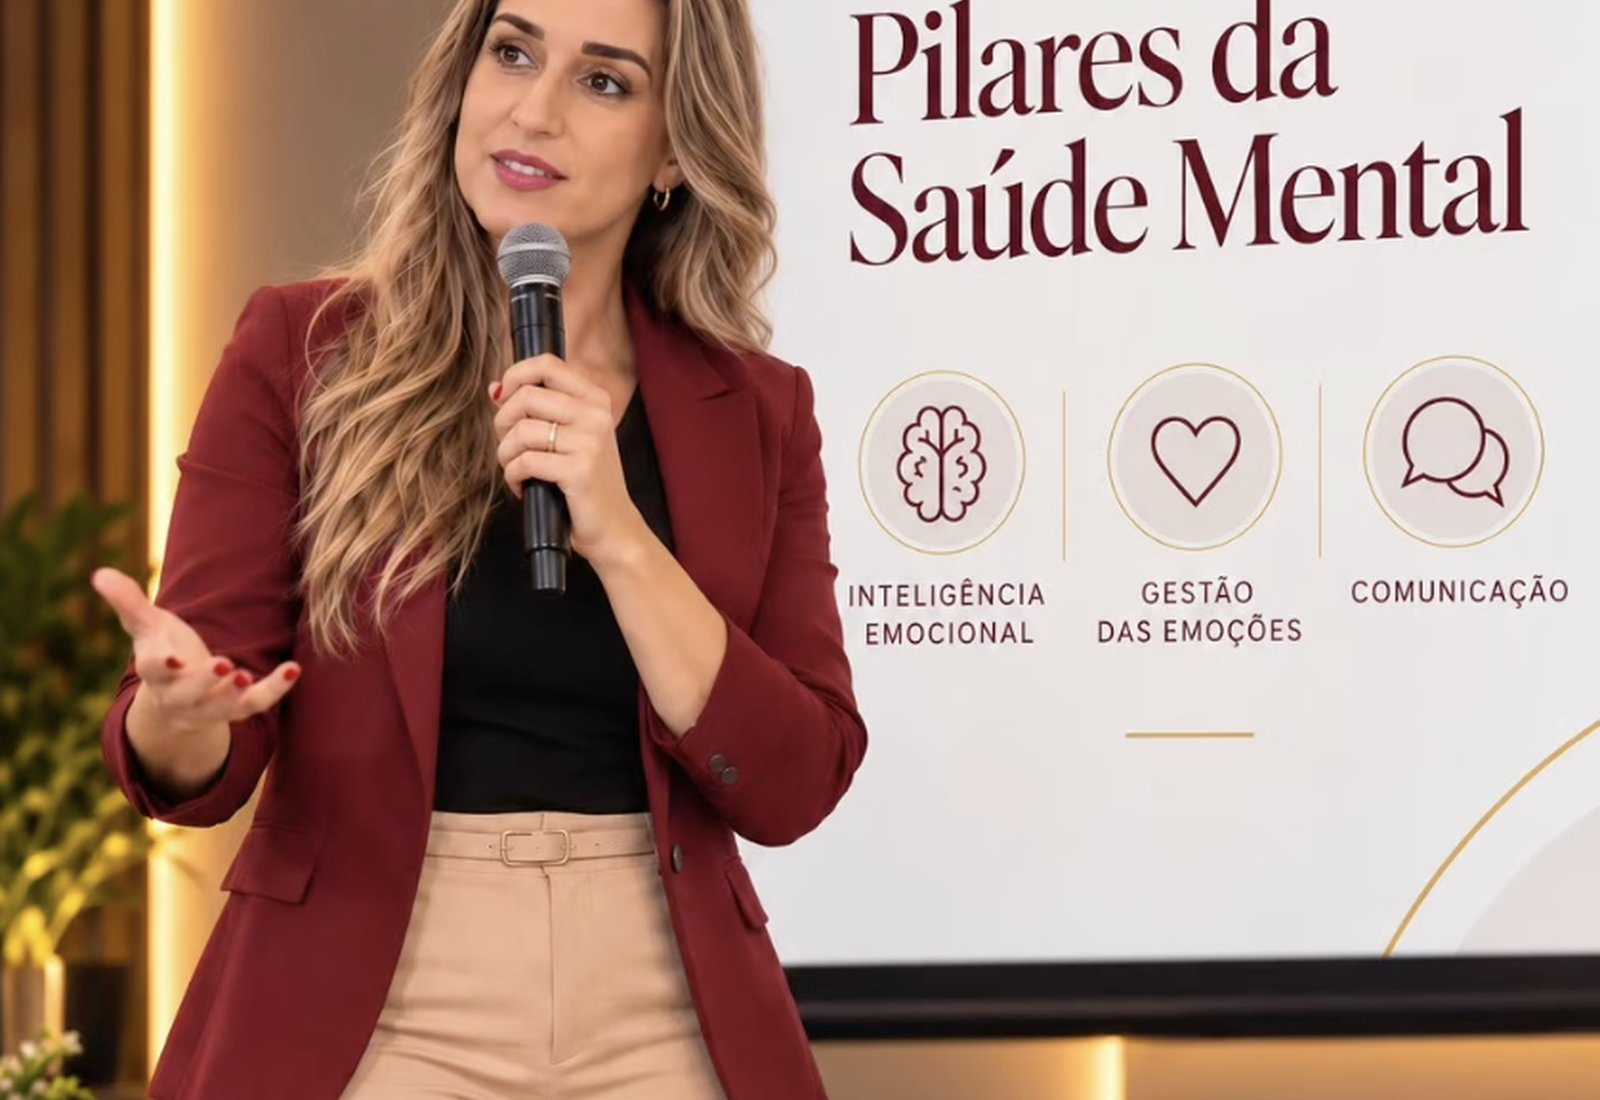
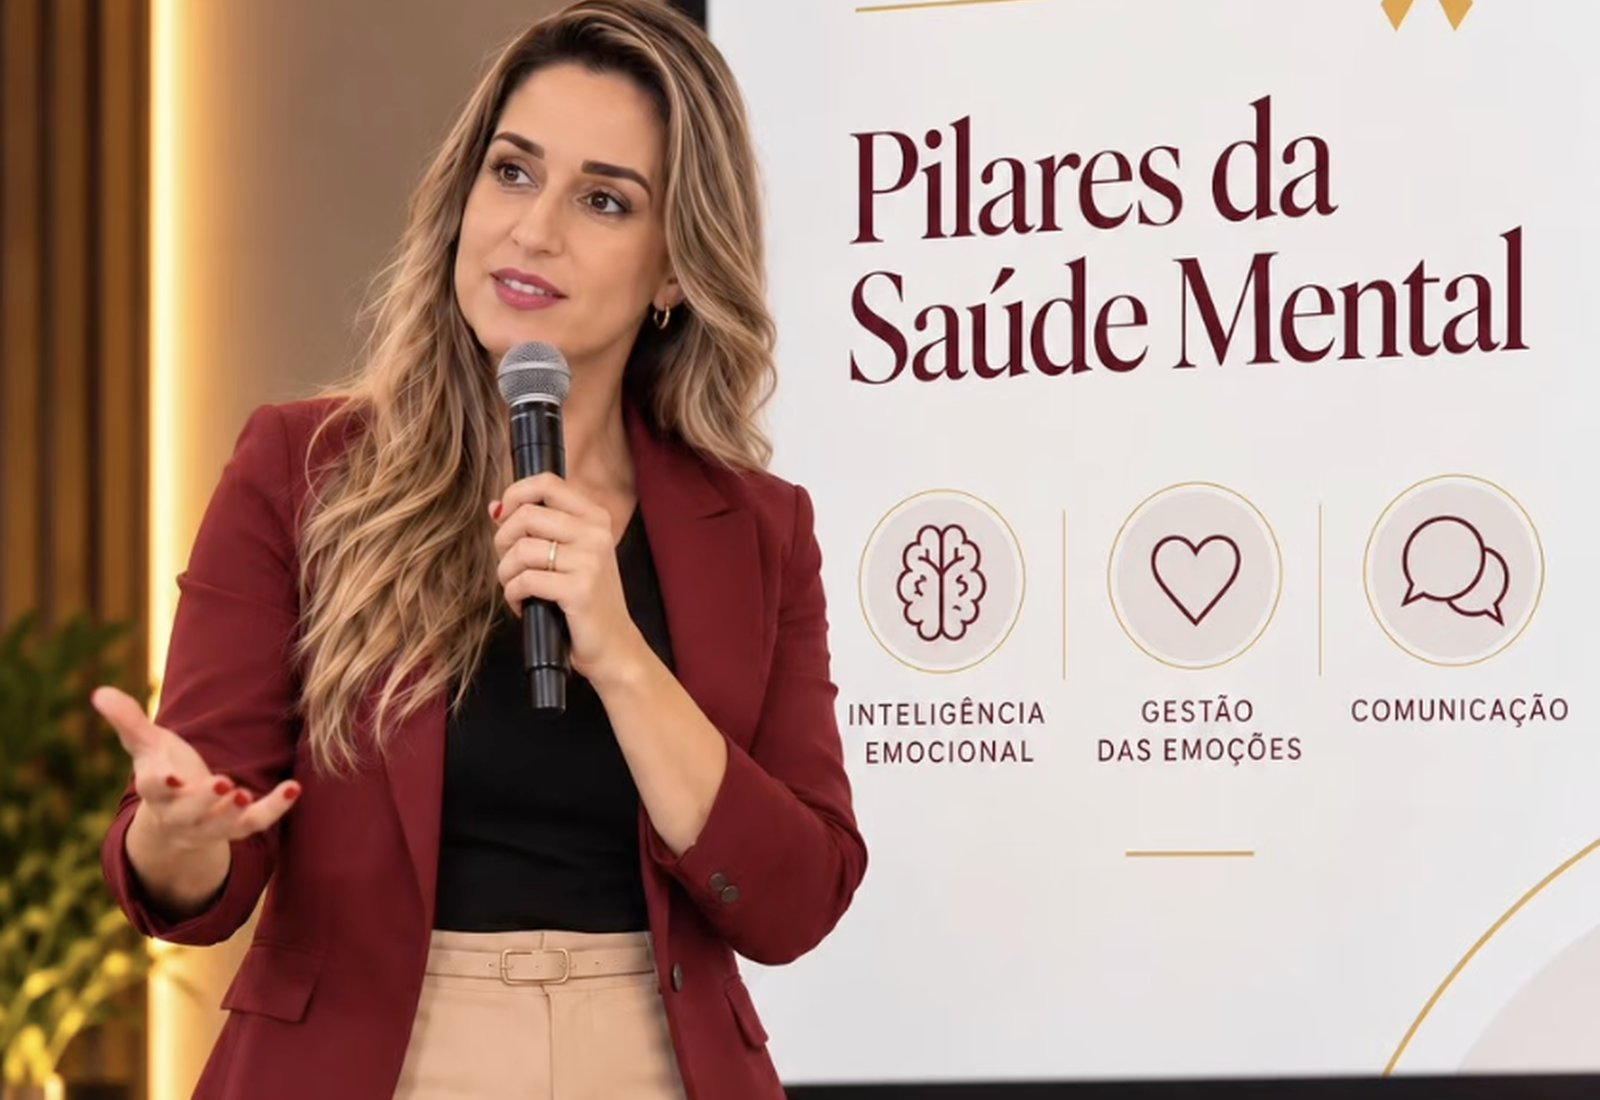
Ajusta enquadramento da foto de palestra (cabeça cortada) e adiciona marcador diamante dourado nas listas

diff --git a/priscila-lopes/sobre/index.html b/priscila-lopes/sobre/index.html
@@ -55,7 +55,7 @@
     <div class="sec-head"><p class="eyebrow">Formação e abordagem</p><h2>Formação e abordagem</h2><p style="font-size:13px;color:#8a7a70">Formação acadêmica, especializações, cursos, certificações e experiência a confirmar com Priscila.</p></div>
     <div class="grid-4">
       <div class="feat-card reveal"><svg viewBox="0 0 24 24" fill="none" stroke="currentColor" stroke-width="1.4"><path d="M12 3 2 8l10 5 10-5-10-5zM2 8v6M6 10.5V16c0 1.7 2.7 3 6 3s6-1.3 6-3v-5.5"/></svg><h3>Formação acadêmica</h3><p style="font-size:13px;color:#8a7a70">(a ajustar)</p></div>
-      <div class="feat-card reveal"><svg viewBox="0 0 24 24" fill="none" stroke="currentColor" stroke-width="1.4"><circle cx="12" cy="8" r="5"/><path d="M8.5 12.5 7 21l5-2.5L17 21l-1.5-8.5"/></svg><h3>Especializações</h3><p style="font-size:13.5px;color:#4a4540;margin:0">Psicanalista<br>Reposicionamento familiar (Consciência Sistêmica)<br>Especialização em Traumas emocionais<br>Psicoterapeuta Positiva</p></div>
+      <div class="feat-card reveal"><svg viewBox="0 0 24 24" fill="none" stroke="currentColor" stroke-width="1.4"><circle cx="12" cy="8" r="5"/><path d="M8.5 12.5 7 21l5-2.5L17 21l-1.5-8.5"/></svg><h3>Especializações</h3><ul class="diamond-list"><li>Psicanalista</li><li>Reposicionamento familiar (Consciência Sistêmica)</li><li>Especialização em Traumas emocionais</li><li>Psicoterapeuta Positiva</li></ul></div>
       <div class="feat-card reveal"><svg viewBox="0 0 24 24" fill="none" stroke="currentColor" stroke-width="1.4"><path d="M12 3c3 3 6 6.5 6 10a6 6 0 1 1-12 0c0-3.5 3-7 6-10z"/></svg><h3>Abordagem</h3><p style="font-size:13px;color:#8a7a70">(a ajustar)</p></div>
       <div class="feat-card reveal"><svg viewBox="0 0 24 24" fill="none" stroke="currentColor" stroke-width="1.4"><path d="M3 20c0-3 2.5-5 6-5s6 2 6 5M12 11a3.5 3.5 0 1 0 0-7 3.5 3.5 0 0 0 0 7zM16.5 7.5a3 3 0 1 1 3.2 5.2M19 13.5c1.8.4 3 1.8 3 3.5"/></svg><h3>Experiência</h3><p style="font-size:13px;color:#8a7a70">(a ajustar)</p></div>
     </div>

diff --git a/priscila-lopes/style.css b/priscila-lopes/style.css
@@ -127,6 +127,11 @@ p{margin:0 0 16px;color:#4a4540}
 .feat-card h3{font-size:16.5px;margin-bottom:8px}
 .feat-card p{font-size:14px;margin:0}
 
+/* diamond bullet list */
+.diamond-list{list-style:none;margin:0;padding:0;display:flex;flex-direction:column;gap:10px}
+.diamond-list li{display:flex;align-items:flex-start;gap:11px;font-size:13.5px;color:#4a4540;line-height:1.45}
+.diamond-list li::before{content:"";width:9px;height:9px;flex:none;margin-top:5px;background:linear-gradient(135deg,#dfc78e,var(--dourado) 55%,#8a6a37);clip-path:polygon(50% 0%,100% 50%,50% 100%,0% 50%)}
+
 /* timeline */
 .timeline{display:flex;flex-direction:column;gap:0}
 .tl-step{display:grid;grid-template-columns:60px 1fr;gap:22px;padding:26px 0;border-top:1px solid #29252218}
